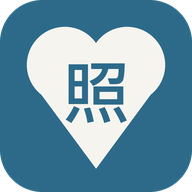
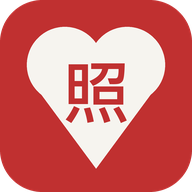
圖示改為紅色系（熱忱），網址列與主畫面主題色同步

diff --git a/index.html b/index.html
@@ -10,7 +10,7 @@
 <link rel="icon" type="image/png" sizes="16x16" href="icons/favicon-16.png">
 <link rel="apple-touch-icon" href="icons/apple-touch-icon.png">
 <link rel="manifest" href="manifest.webmanifest">
-<meta name="theme-color" content="#2d6a8a">
+<meta name="theme-color" content="#c03030">
 <meta name="mobile-web-app-capable" content="yes">
 <meta name="apple-mobile-web-app-capable" content="yes">
 <meta name="apple-mobile-web-app-title" content="照服員指引">

diff --git a/sw.js b/sw.js
@@ -1,5 +1,5 @@
 // 離線使用：網頁採「網路優先、離線用快取」。書籍資料匯入後存在 IndexedDB，不經過這裡。
-const CACHE = 'caregiver-guide-v1';
+const CACHE = 'caregiver-guide-v2';
 const CORE = [
   './', 'index.html', 'manifest.webmanifest', 'favicon.ico',
   'icons/favicon-32.png', 'icons/icon-192.png', 'icons/icon-512.png', 'icons/apple-touch-icon.png'

diff --git a/tools/make_icons.py b/tools/make_icons.py
@@ -1,4 +1,4 @@
-"""產生網站圖示：favicon、apple-touch-icon、PWA 圖示（含 maskable）：藍底、奶油色愛心、「照」字。
+"""產生網站圖示：favicon、apple-touch-icon、PWA 圖示（含 maskable）：紅底、奶油色愛心、「照」字。
 
 用法：python tools/make_icons.py
 需要：pip install pillow；字型使用 Windows 微軟正黑體粗體
@@ -10,7 +10,7 @@ from PIL import Image, ImageDraw, ImageFont
 ROOT = Path(__file__).resolve().parent.parent
 OUT = ROOT / "icons"
 FONT = "C:/Windows/Fonts/msjhbd.ttc"
-TEAL = (45, 106, 138)
+RED = (192, 48, 48)  # 熱忱紅
 CREAM = (246, 244, 239)
 S = 1024  # 先畫大圖再縮小，邊緣較平滑
 
@@ -19,10 +19,10 @@ def draw(full_bleed: bool) -> Image.Image:
     img = Image.new("RGBA", (S, S), (0, 0, 0, 0))
     d = ImageDraw.Draw(img)
     if full_bleed:
-        d.rectangle([0, 0, S, S], fill=TEAL)
+        d.rectangle([0, 0, S, S], fill=RED)
         scale, cx, cy = 0.72, S / 2, S / 2  # maskable：主體留在安全區內
     else:
-        d.rounded_rectangle([0, 0, S - 1, S - 1], radius=int(S * 0.22), fill=TEAL)
+        d.rounded_rectangle([0, 0, S - 1, S - 1], radius=int(S * 0.22), fill=RED)
         scale, cx, cy = 0.9, S / 2, S / 2
 
     def p(x, y):  # 以 0–1 座標定位，並依 scale 縮放到中心
@@ -34,7 +34,7 @@ def draw(full_bleed: bool) -> Image.Image:
     d.polygon([p(0.115, 0.40), p(0.885, 0.40), p(0.5, 0.92)], fill=CREAM)
     font = ImageFont.truetype(FONT, int(S * scale * 0.40), index=0)
     x, y = p(0.5, 0.47)
-    d.text((x, y), "照", font=font, fill=TEAL, anchor="mm")
+    d.text((x, y), "照", font=font, fill=RED, anchor="mm")
     return img
 
 
